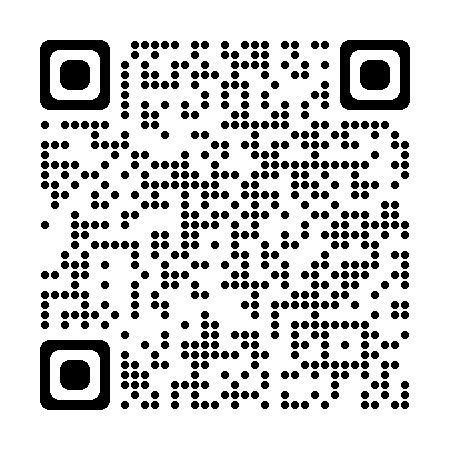
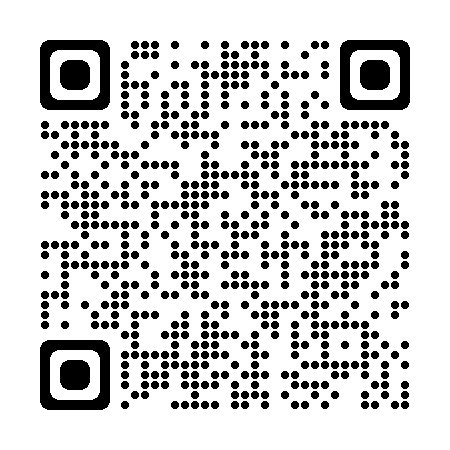
Feedbacks added

diff --git a/Rentals/templates/Rentals/welcome.html b/Rentals/templates/Rentals/welcome.html
@@ -211,7 +211,7 @@ table, td { color: #000000; } #u_body a { color: #0000ee; text-decoration: under
   <!--[if mso]><style>.v-button {background: transparent !important;}</style><![endif]-->
 <div class="v-text-align" align="center">
   <!--[if mso]><v:roundrect xmlns:v="urn:schemas-microsoft-com:vml" xmlns:w="urn:schemas-microsoft-com:office:word" href="http://127.0.0.1:8000/" style="height:37px; v-text-anchor:middle; width:215px;" arcsize="54%"  stroke="f" fillcolor="#000000"><w:anchorlock/><center style="color:#FFFFFF;font-family:'Montserrat',sans-serif;"><![endif]-->  
-    <a href="https://rentalsklu.herokuapp.com/" target="_blank" class="v-button v-size-width" style="box-sizing: border-box;display: inline-block;font-family:'Montserrat',sans-serif;text-decoration: none;-webkit-text-size-adjust: none;text-align: center;color: #FFFFFF; background-color: #000000; border-radius: 20px;-webkit-border-radius: 20px; -moz-border-radius: 20px; width:37%; max-width:100%; overflow-wrap: break-word; word-break: break-word; word-wrap:break-word; mso-border-alt: none;">
+    <a href="https://taxies24hrs.up.railway.app/" target="_blank" class="v-button v-size-width" style="box-sizing: border-box;display: inline-block;font-family:'Montserrat',sans-serif;text-decoration: none;-webkit-text-size-adjust: none;text-align: center;color: #FFFFFF; background-color: #000000; border-radius: 20px;-webkit-border-radius: 20px; -moz-border-radius: 20px; width:37%; max-width:100%; overflow-wrap: break-word; word-break: break-word; word-wrap:break-word; mso-border-alt: none;">
       <span class="v-line-height" style="display:block;padding:10px 20px;line-height:120%;">Click Here</span>
     </a>
   <!--[if mso]></center></v:roundrect><![endif]-->

diff --git a/Rentals/templates/Rentals/blog.html b/Rentals/templates/Rentals/blog.html
@@ -26,11 +26,13 @@
     <div class="feedbody">
         {% for comment in comments %}
         <div class="row my-3">
-            <div class="col-md-1  ">
-                <img class="rounded mx-auto d-block w-100 p-2" src="/static/styles/Images&Gifs/user.png" alt="user">
+            <div class="col-md-1">
+                <div class="ulogo">
+                    <img class="rounded mx-auto d-block w-100 p-2" src="/static/styles/Images&Gifs/user.png" alt="user">
+                </div>
             </div>
             <div class="col-md-11 ">
-                <b> {{comment.user.username}} </b> at {{comment.timestamp}}
+                <b> {{comment.user.username}} </b> <span>at {{comment.timestamp}}</span>
                 <div> {{comment.comment}} </div>
             </div>
         </div>

diff --git a/Rentals/static/styles/homestyle.css b/Rentals/static/styles/homestyle.css
@@ -139,6 +139,12 @@ body{
   padding: 12px;
   background-color: rgba(0, 0, 0, 0.675);
 }
+.feedbody b{
+  color: #13daf4;
+}
+.feedbody span{
+  color: #b53dff;
+}
 .feedinfo{
   border-radius: 23px;
   color: black;
@@ -902,6 +908,19 @@ box-shadow: 0 0 34px #b113f4;
 /* Responsiveness */
 @media screen and (max-width: 680px)
 {
+  .ulogo{
+    width: 40px;
+  }
+  .feedbackcontainer{
+    display: inline-block;
+    margin-top: 20%;
+    margin-left: 4%;
+    width: 92%;
+    font-size: 14px;
+      background-color: rgba(55, 180, 252, 0.733);
+      color: rgb(255, 255, 255);
+      border-radius: 20px;
+  }
   .qr{
     font-size: 12px;
     top: 84%;
